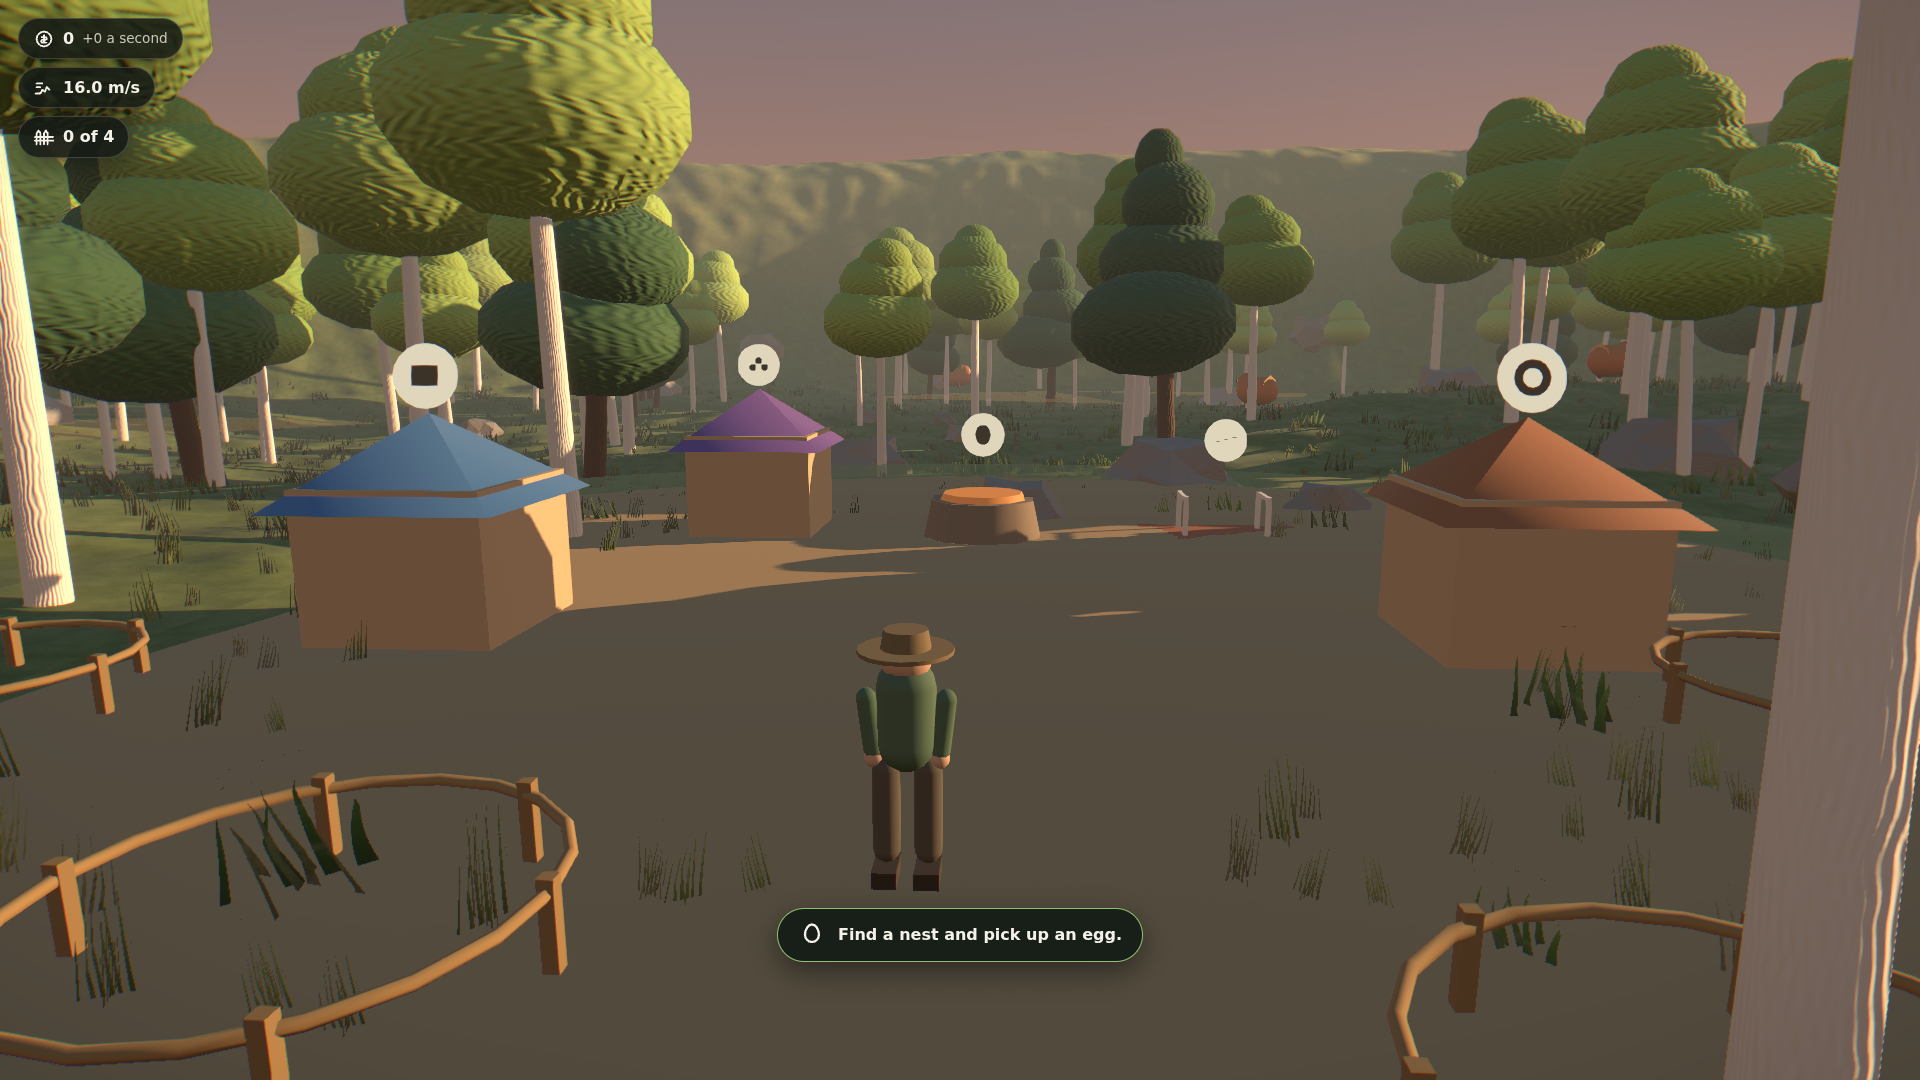
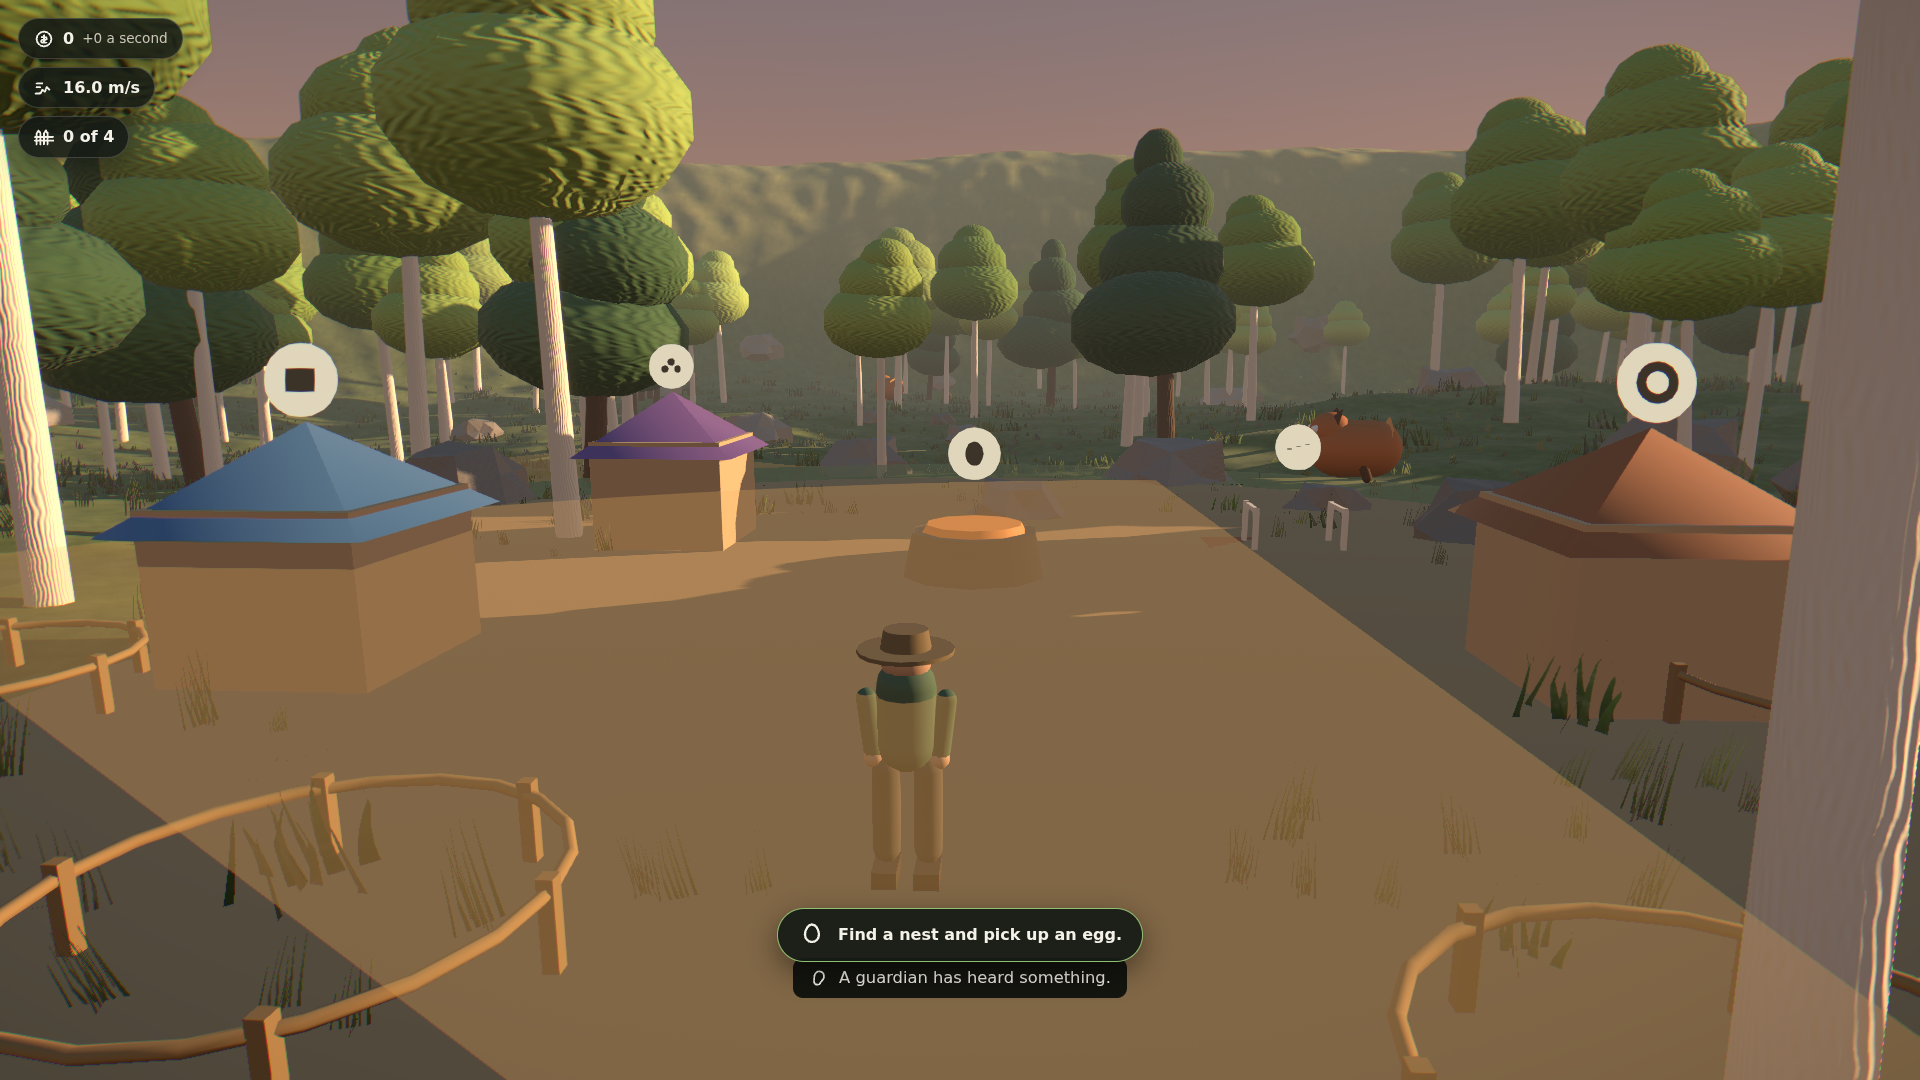
perf: make the budget probe measure the build it is testing
Three rounds of draw-call work reported byte-identical numbers because
Playwright's webServer had reuseExistingServer and vite preview serves
dist/ -- every run measured a build from hours earlier. The config now
builds as part of starting the server and never reuses one.

With the real build measured, High comes in at 258 draw calls and 670k
triangles against a 450 / 1.2M budget. Two things it turned out were
never actually in there:

- The guardian detail cull was written down as done but the line that
  hides the group had never been inserted, so the distance constant sat
  unused. Lint caught it; the budget probe could not, because it was
  reading a stale build either way.
- The hatchling cull had the same shape and also shadowed an existing
  binding, which is what surfaced it: tsc -b caught a redeclaration that
  tsc --noEmit on the solution file did not, so `npm run typecheck` and
  `npm run check` now exist and run the real build's type pass.

Also moved two tuning numbers into balance.ts: the catch hitstop was
duplicating MOVEMENT.hitstopMs as a literal, and the give-up beat was a
bare 1.0 next to a GUARDIAN table that names every other timing.

Claude-Session: https://claude.ai/code/session_01S8vggPtgU2EjQxnnYdffEr

diff --git a/src/render/entities/GuardianEntity.tsx b/src/render/entities/GuardianEntity.tsx
@@ -99,6 +99,17 @@ export function GuardianEntity({
       leg.rotation.x = moving ? Math.sin(bob.current + offset) * 0.42 : 0;
     }
 
+    const camera = _state.camera.position;
+    const toCamera = Math.hypot(camera.x - instance.position.x, camera.z - instance.position.z);
+
+    /*
+     * Eyes, pupils, ears and belly are a dozen extra draw calls per guardian,
+     * paid again for every shadow cascade, and past twenty metres each one is
+     * smaller than the pixel it lands in. Hiding the detail group is free
+     * fidelity: nobody can see what is being removed.
+     */
+    parts.detail.visible = toCamera < DETAIL_DRAW_DISTANCE;
+
     if (cone.current !== null) {
       /*
        * Vision cones are the single most expensive thing this entity draws:
@@ -110,8 +121,6 @@ export function GuardianEntity({
        * CI from seventeen seconds a frame to something usable, and it is the
        * same saving on a real integrated GPU.
        */
-      const camera = _state.camera.position;
-      const toCamera = Math.hypot(camera.x - instance.position.x, camera.z - instance.position.z);
       cone.current.visible = showVisionCone && state !== 'drowsy' && toCamera < CONE_DRAW_DISTANCE;
       const material = cone.current.material as { opacity?: number };
       if (material.opacity !== undefined) {

diff --git a/playwright.config.ts b/playwright.config.ts
@@ -41,10 +41,20 @@ export default defineConfig({
       use: { ...devices['Desktop Chrome'], viewport: { width: 1920, height: 1080 } },
     },
   ],
+  /*
+   * Build every time, and never reuse a server.
+   *
+   * `preview` serves `dist/`, so with `reuseExistingServer` a run would
+   * happily measure whatever was built hours ago. That is how three rounds of
+   * draw-call optimisation got measured against a build that contained none
+   * of them: the numbers were identical each time, which read as "the change
+   * did nothing" rather than "the change is not in there". A three-second
+   * build is cheap next to a gate that lies.
+   */
   webServer: {
-    command: `npm run preview -- --port ${PORT} --strictPort`,
+    command: `npm run build && npm run preview -- --port ${PORT} --strictPort`,
     url: `http://127.0.0.1:${PORT}`,
-    reuseExistingServer: true,
-    timeout: 120_000,
+    reuseExistingServer: false,
+    timeout: 180_000,
   },
 });

diff --git a/src/render/entities/CreatureInHabitat.tsx b/src/render/entities/CreatureInHabitat.tsx
@@ -21,6 +21,9 @@ export interface CreatureInHabitatProps {
   size: SizeId;
 }
 
+/** A hatchling is half a guardian's size, so its detail vanishes sooner. */
+const HATCHLING_DETAIL_DISTANCE = 18;
+
 export function CreatureInHabitat({
   body,
   mutation,
@@ -93,10 +96,11 @@ export function CreatureInHabitat({
     }
 
     // Same distance cull as the guardians: a habitat full of hatchlings is
-    // otherwise one of the heaviest things in the sanctuary.
+    // otherwise one of the heaviest things in the sanctuary, and a hatchling
+    // is half the size of one, so the detail goes sooner.
     const camera = state.camera.position;
-    const distance = Math.hypot(camera.x - g.position.x, camera.z - g.position.z);
-    parts.detail.visible = distance < 18;
+    const toCamera = Math.hypot(camera.x - g.position.x, camera.z - g.position.z);
+    parts.detail.visible = toCamera < HATCHLING_DETAIL_DISTANCE;
   });
 
   return (

diff --git a/src/systems/loop.ts b/src/systems/loop.ts
@@ -8,7 +8,7 @@
  * a second.
  */
 
-import { EGG, GUARDIAN, RIVALS, TOOL_DEFS } from '../data/balance';
+import { EGG, GUARDIAN, MOVEMENT, RIVALS, TOOL_DEFS } from '../data/balance';
 import { BIOME_DEFS } from '../data/biomes';
 import {
   createGuardianRuntime,
@@ -277,7 +277,7 @@ export function stepLoop(
       runtime.tumbleRemaining <= 0
     ) {
       runtime.tumbleRemaining = GUARDIAN.tumbleSeconds;
-      runtime.hitstopRemaining = 0.08;
+      runtime.hitstopRemaining = MOVEMENT.hitstopMs / 1000;
       const dropped = runtime.carried;
       runtime.carried = null;
       events.push({ type: 'caught', ...(dropped === null ? {} : { roll: dropped }) });

diff --git a/src/sim/guardian.ts b/src/sim/guardian.ts
@@ -167,7 +167,7 @@ export function stepGuardian(rt: GuardianRuntime, input: GuardianStepInput): Gua
     case 'giveUp': {
       // A short, readable "hmph" beat before it turns around.
       if (perception.sees) setState(rt, 'chase');
-      else if (rt.timeInState >= 1.0) setState(rt, 'cooldown');
+      else if (rt.timeInState >= GUARDIAN.giveUpBeatSeconds) setState(rt, 'cooldown');
       break;
     }
 

diff --git a/src/data/balance.ts b/src/data/balance.ts
@@ -180,6 +180,8 @@ export const GUARDIAN = {
   alertSeconds: 1.2,
   investigateSeconds: 6,
   giveUpSeconds: 4,
+  /** The short, readable "hmph" beat before it turns around. */
+  giveUpBeatSeconds: 1,
   cooldownSeconds: 8,
   drowsySeconds: 8,
   drowsySpeedMultiplier: 0.35,

diff --git a/DECISIONS.md b/DECISIONS.md
@@ -279,12 +279,27 @@ Worth stating plainly: I had a performance overlay reporting zeros and did not
 notice, because zeros look like "nothing to worry about". A budget you cannot
 see is a wish, and a budget that reads zero is worse than none at all.
 
+### The measurement that was measuring nothing
+
+Three rounds of draw-call work came back with byte-identical numbers --
+`draws=522 tris=1123422`, every time. That reads as "the optimisation did
+nothing". It actually meant "the optimisation is not in the build": Playwright
+runs `vite preview`, which serves `dist/`, and the config had
+`reuseExistingServer: true`. Every run was measuring a build from hours
+earlier.
+
+The config now runs `npm run build` as part of starting the server and never
+reuses one. Three seconds a run against a gate that reports fiction is not a
+trade worth thinking about. This is the second time on this project that a
+green-looking number turned out to be measuring something other than the game,
+and both times the tell was the same: a number that would not move.
+
 ### What the measurement found
 
-| Preset | Draw calls | Triangles | Verdict                               |
-| ------ | ---------- | --------- | ------------------------------------- |
-| Low    | 297        | 280k      | inside budget                         |
-| High   | **665**    | 1.12M     | **48% over the 450 draw-call budget** |
+| Preset | Draw calls    | Triangles        | Verdict                      |
+| ------ | ------------- | ---------------- | ---------------------------- |
+| Low    | 178           | 279k             | inside budget                |
+| High   | 665 → **258** | 1.12M → **670k** | inside the 450 / 1.2M budget |
 
 Three causes, in order of size:
 
@@ -300,6 +315,12 @@ Three causes, in order of size:
    else was on screen. Baked into one shared geometry: nests are things a
    child recognises by shape, so making each one subtly unique cost nine
    geometries and bought nothing.
+
+The last of those three had already been written down here as done before it
+actually was: the detail group existed and the distance constant existed, but
+the line that connects them had never been inserted, so the constant sat there
+unused and the cull did nothing. Lint caught it as an unused variable, which is
+the only reason it was caught at all.
 
 Also culled the guardian vision cones by distance. Nine transparent discs
 metres across stack into near-full-screen overdraw, and a cone you cannot walk

diff --git a/README.md b/README.md
@@ -181,14 +181,25 @@ what npm actually resolved on install day.
 
 Target: locked 60fps at 1080p on integrated graphics.
 
-| Budget            | Limit           |
-| ----------------- | --------------- |
-| CPU frame         | ≤ 6ms           |
-| GPU frame         | ≤ 12ms at High  |
-| Draw calls        | ≤ 450           |
-| Triangles         | ≤ 1.2M          |
-| Initial JS bundle | ≤ 250KB gzipped |
+| Budget            | Limit           | Measured at High | Measured at Low |
+| ----------------- | --------------- | ---------------- | --------------- |
+| Draw calls        | ≤ 450           | **258**          | 178             |
+| Triangles         | ≤ 1.2M          | **670k**         | 279k            |
+| Initial JS bundle | ≤ 250KB gzipped | **85KB**         | 85KB            |
+| CPU frame         | ≤ 6ms           | not measured     | not measured    |
+| GPU frame         | ≤ 12ms          | not measured     | not measured    |
 
-The initial payload is **85KB gzipped** — the title screen loads alone and the
-3D runtime arrives behind the Play button. Press `F3` in game for the live
+The initial payload is 85KB gzipped — the title screen loads alone and the 3D
+runtime arrives behind the Play button. Press `F3` in game for the live
 overlay; it turns amber the moment anything is over budget.
+
+Draw calls, triangles and bundle size are asserted by `tests/e2e/perf.spec.ts`
+on every run, because they are hardware-independent and they are what the
+budget is actually written in.
+
+**Frame time is not.** CI renders through a software rasteriser, so any fps
+number measured there would be measuring SwiftShader rather than the game. The
+"locked 60fps on integrated graphics" target is therefore **unverified** — the
+per-frame work is inside budget and `F3` is there to check it on real hardware,
+but nobody has yet run this on an Iris Xe and this file is not going to claim
+otherwise.
